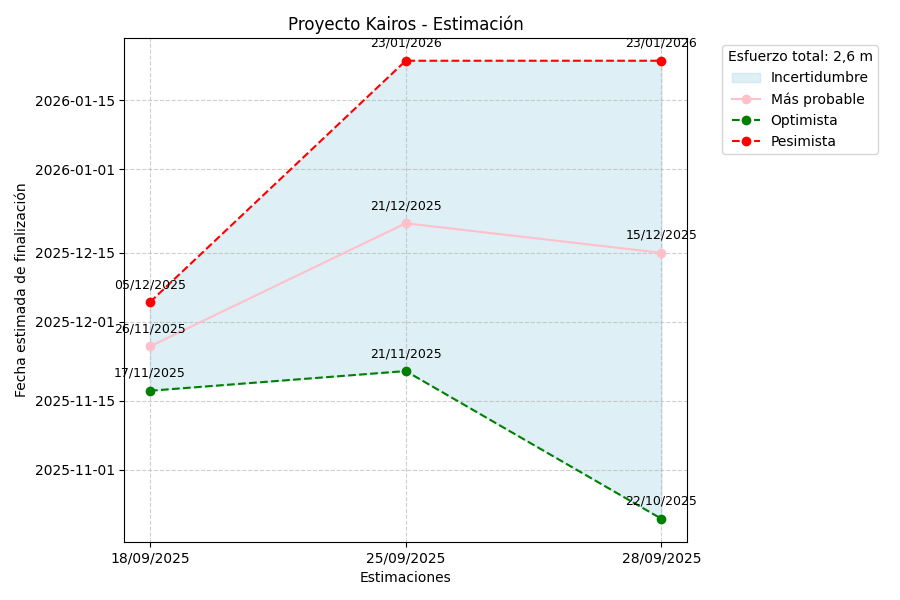
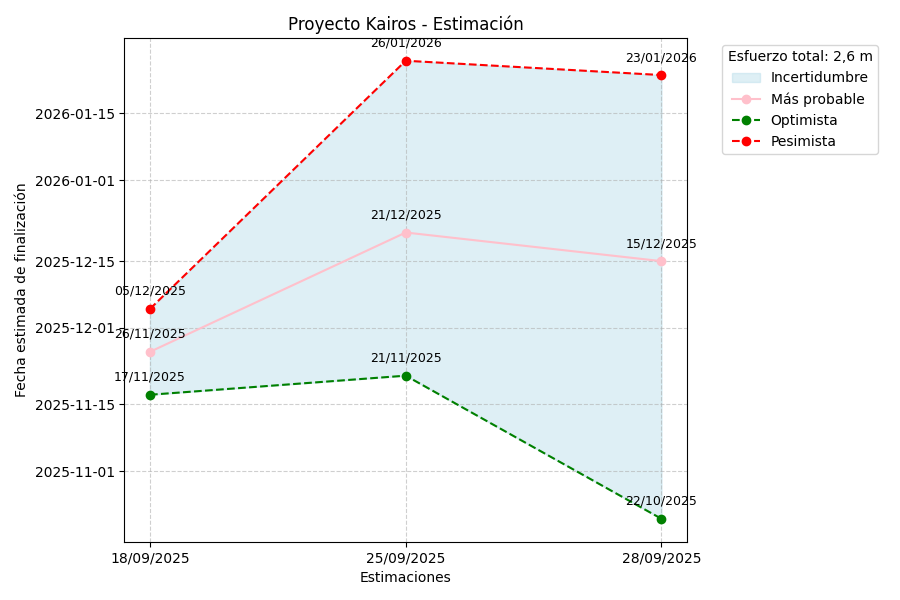
docs(Estimacion): Grafico nuevo28/9/25

diff --git a/Estimacion/Estimacion.py b/Estimacion/Estimacion.py
@@ -22,7 +22,7 @@ optimista_meses = [
 ]
 pesimista_meses = [
     2.6,
-    4.0,
+    4.1,
     3.9
     # Agrega más valores acá a medida que hagan estimaciones
 ]
